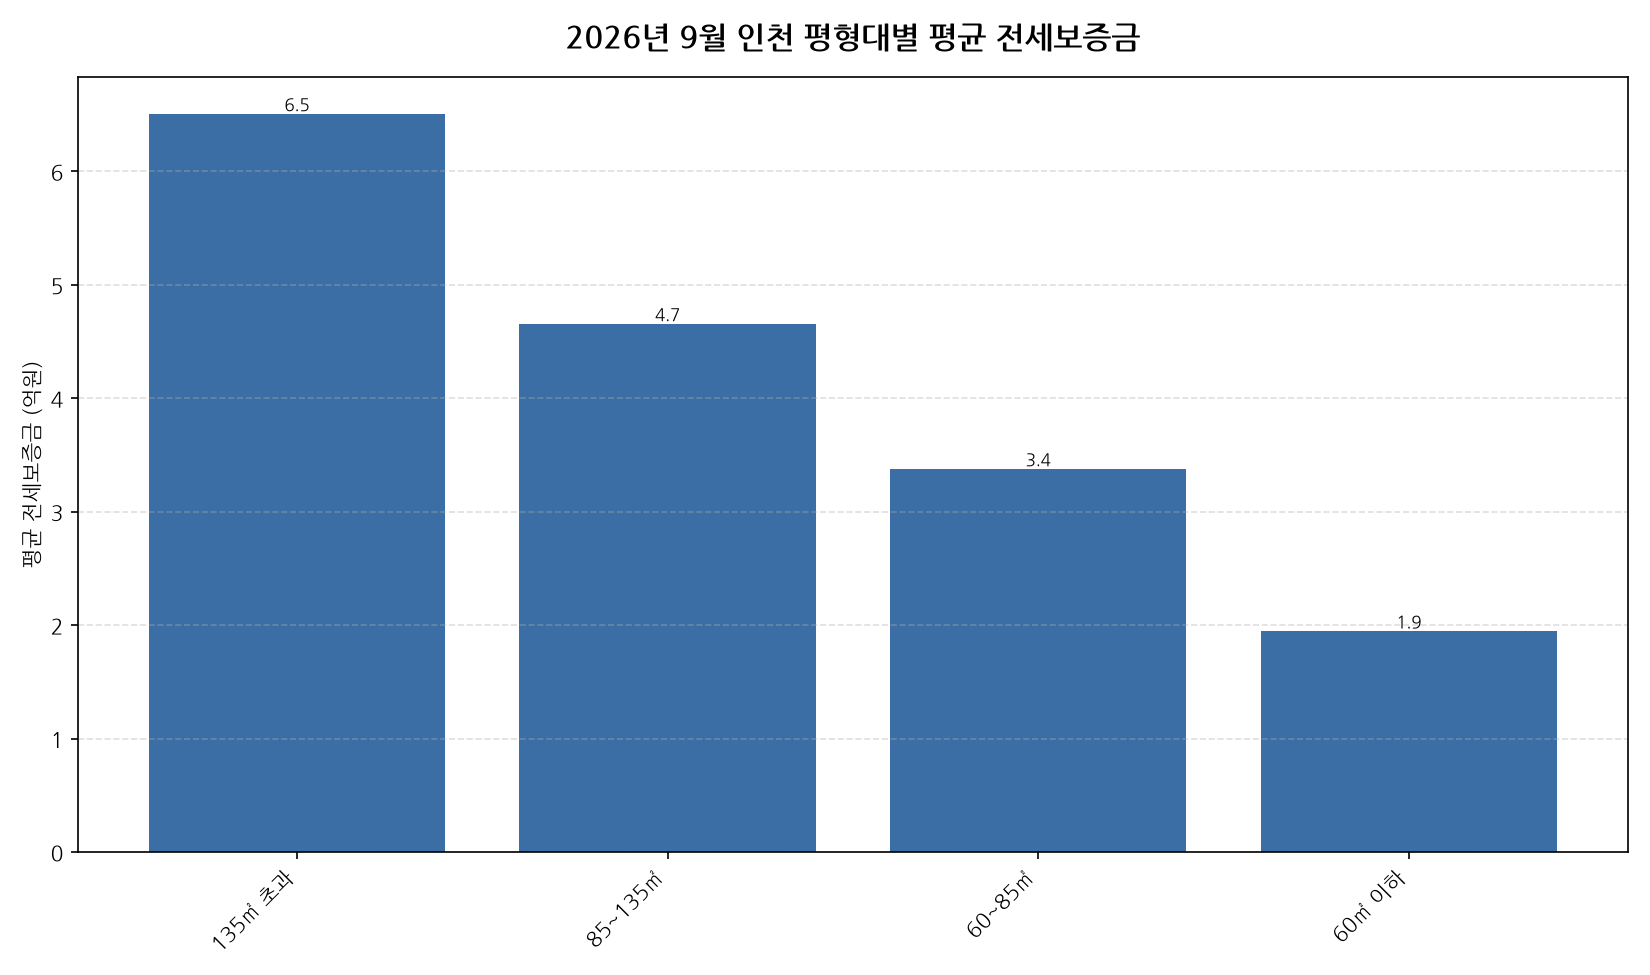
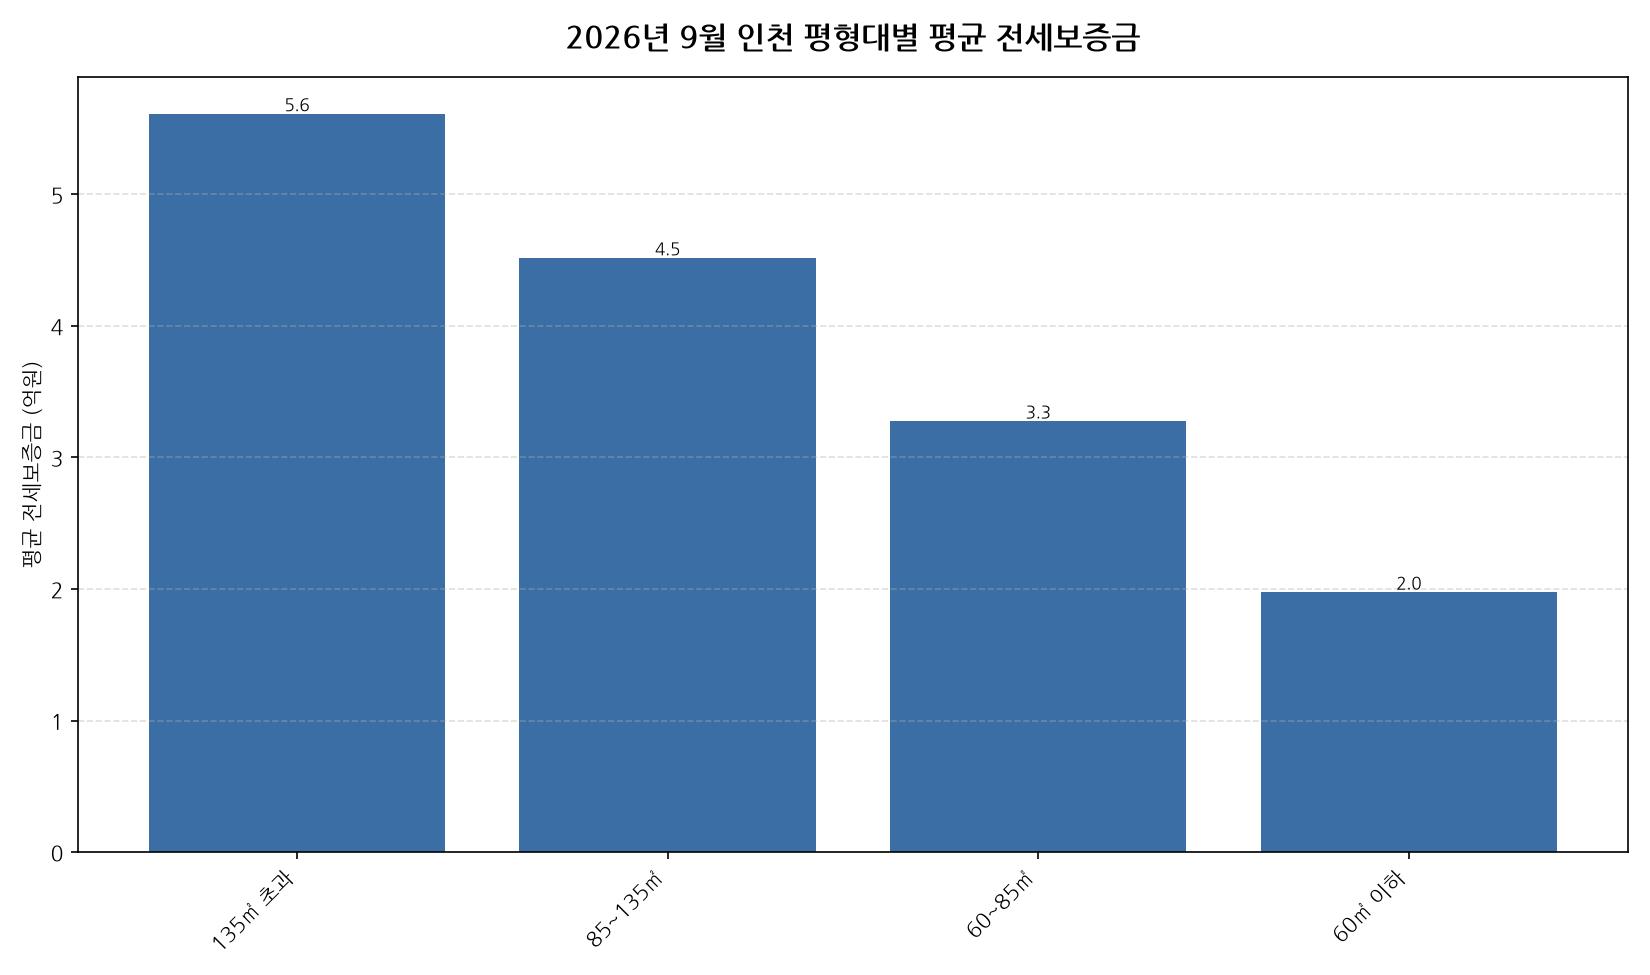
인천 글 3편 정정 재생성: 행정구역 개편 후 11개 구/군 기준
2026-07-01 개편으로 폐지된 중구·동구·서구 코드로 수집돼 제물포구·영종구·서해구·검단구 거래가
빠져 있던 글을 새 코드로 다시 생성했다. 주소와 최초 발행일은 유지하고 lastmod와 정정 안내를 더했다.

Changed region(s): [[0.3091, 0.2462, 0.4945, 0.3385], [0.5255, 0.4, 0.7418, 0.4923], [0.7418, 0.5846, 0.9582, 0.6462]]

diff --git a/content/posts/incheon-apt-jeonse-202608/index.md b/content/posts/incheon-apt-jeonse-202608/index.md
@@ -1,11 +1,13 @@
 ---
 title: "2026년 8월 인천 아파트 전세가 동향"
 date: 2026-09-28T10:22:10+09:00
+lastmod: 2026-10-27T06:00:38+09:00
 draft: false
 tags: ["아파트", "전세", "실거래가"]
 categories: ["데이터분석"]
-summary: "2026년 8월 인천 아파트 순수 전세 실거래 데이터 분석"
+summary: "2026년 8월 인천 아파트 순수 전세 2,201건 분석: 평균 3.0억원(전월 대비 +3.8%), 구/군별 최고는 연수구(3.7억원)"
 ---
+> **정정 안내 (2026-10-27)**: 처음 발행한 글은 2026년 7월 1일 인천 행정구역 개편(중구·동구·서구 폐지, 제물포구·영종구·서해구·검단구 신설)으로 바뀐 지역 코드를 반영하지 못해, 해당 지역의 거래가 빠진 채 집계됐습니다. 개편 후 11개 구/군 기준으로 데이터를 다시 수집해 표·차트·수치를 모두 바로잡았습니다.
 
 공공데이터포털의 국토교통부 아파트 전월세 실거래자료를 파이썬으로 직접 수집·분석해
 2026년 8월 인천 아파트 순수 전세 시장 흐름을 정리했습니다.
@@ -13,26 +15,32 @@ summary: "2026년 8월 인천 아파트 순수 전세 실거래 데이터 분석
 ## 분석 방법
 
 - 데이터 출처: [국토교통부 아파트 전월세 실거래자료](https://www.data.go.kr/data/15126474/openapi.do) (공공데이터포털 Open API)
-- 분석 대상: 인천 10개 구/군, 2026년 8월 신고 기준 순수 전세 계약
+- 분석 대상: 인천 11개 구/군, 2026년 8월 신고 기준 순수 전세 계약
 - 비교 기준월: 2026년 7월 (전월 대비 증감률 계산용)
 - 실거래 신고는 계약 후 30일 이내에 이루어지므로, 최근월 데이터는 이후 계속 소폭 갱신될 수 있습니다.
+- 데이터 수집 기준일: 2026-10-27. 이후 늦게 신고된 계약이 반영되면 같은 달을 다룬 다른 글과 수치가 조금 다를 수 있습니다.
 
-## 2026년 8월 인천 아파트 전세가 동향 · 구/군별 평균 전세보증금
+## 인천 구/군별 평균 전세보증금과 전월 대비 변화
 
 ![2026년 8월 인천 구/군별 평균 전세보증금](chart.png)
 
-| 구/군 | 평균 전세보증금 | 중위 전세보증금 | 거래건수 |
-|---|---:|---:|---:|
-| 연수구 | 3.7 | 3.7 | 532 |
-| 부평구 | 2.7 | 2.5 | 278 |
-| 남동구 | 2.6 | 2.7 | 231 |
-| 미추홀구 | 2.5 | 2.8 | 124 |
-| 계양구 | 2.0 | 1.7 | 176 |
-| 강화군 | 1.5 | 1.5 | 2 |
+| 구/군 | 평균 전세보증금(억원) | 중위 전세보증금(억원) | 전월 대비 | 거래건수 |
+|---|---:|---:|---:|---:|
+| 연수구 | 3.7 | 3.8 | +0.6% | 553 |
+| 서해구 | 3.6 | 3.7 | +15.8% | 234 |
+| 검단구 | 3.2 | 3.3 | +0.5% | 338 |
+| 부평구 | 2.7 | 2.5 | +2.4% | 286 |
+| 영종구 | 2.6 | 2.7 | +2.2% | 188 |
+| 남동구 | 2.6 | 2.7 | +7.5% | 246 |
+| 미추홀구 | 2.6 | 2.8 | -0.7% | 136 |
+| 계양구 | 2.0 | 1.7 | -2.8% | 185 |
+| 제물포구 | 1.6 | 1.6 | -5.8% | 33 |
+| 강화군 | 1.5 | 1.5 | - | 2 |
 
-## 2026년 8월 인천 아파트 전세가 동향 · 구/군별 인사이트
+## 인천 8월 전세가 동향 인사이트
 
-- 2026년 8월 인천 아파트 순수 전세 평균 전세보증금은 약 3.0억원으로, 전월 대비 2.9% 상승했습니다.
-- 10개 구/군 중 평균 전세보증금이 가장 높은 곳은 연수구(약 3.7억원)이었고, 가장 낮은 곳은 강화군(약 1.5억원)이었습니다.
-- 거래량 기준으로는 연수구에서 532건으로 가장 활발하게 순수 전세 계약이 체결됐습니다.
-- 2026년 8월 인천에서 신고된 순수 전세 계약은 총 1343건입니다 (월세를 낀 반전세/월세 계약은 제외).
+- 2026년 8월 인천 아파트 순수 전세 평균 전세보증금은 약 3.0억원으로, 전월 대비 3.8% 상승했습니다.
+- 11개 구/군 중 평균 전세보증금이 가장 높은 곳은 연수구(약 3.7억원)이었고, 가장 낮은 곳은 강화군(약 1.5억원)이었습니다.
+- 거래량 기준으로는 연수구에서 553건으로 가장 활발하게 순수 전세 계약이 체결됐습니다.
+- 전월 대비 평균이 가장 많이 오른 곳은 서해구(+15.8%), 가장 많이 내린 곳은 제물포구(-5.8%)이었습니다 (두 달 모두 10건 이상 거래된 곳만 비교).
+- 2026년 8월 인천에서 신고된 순수 전세 계약은 총 2201건입니다 (월세를 낀 반전세/월세 계약은 제외).

diff --git a/content/posts/incheon-apt-areaband-202609/index.md b/content/posts/incheon-apt-areaband-202609/index.md
@@ -1,11 +1,13 @@
 ---
 title: "2026년 9월 인천 아파트 평형대별 전세가 분석"
 date: 2026-10-02T10:58:14+09:00
+lastmod: 2026-10-27T06:04:40+09:00
 draft: false
 tags: ["아파트", "평형대", "전세", "실거래가"]
 categories: ["데이터분석"]
-summary: "2026년 9월 인천 아파트 순수 전세 실거래 데이터 분석"
+summary: "2026년 9월 인천 아파트 순수 전세 1,976건 분석: 평균 3.0억원(전월 대비 -0.7%), 평형대별 최고는 135㎡ 초과(5.6억원)"
 ---
+> **정정 안내 (2026-10-27)**: 처음 발행한 글은 2026년 7월 1일 인천 행정구역 개편(중구·동구·서구 폐지, 제물포구·영종구·서해구·검단구 신설)으로 바뀐 지역 코드를 반영하지 못해, 해당 지역의 거래가 빠진 채 집계됐습니다. 개편 후 11개 구/군 기준으로 데이터를 다시 수집해 표·차트·수치를 모두 바로잡았습니다.
 
 공공데이터포털의 국토교통부 아파트 전월세 실거래자료를 파이썬으로 직접 수집·분석해
 2026년 9월 인천 아파트 순수 전세 시장 흐름을 정리했습니다.
@@ -16,21 +18,23 @@ summary: "2026년 9월 인천 아파트 순수 전세 실거래 데이터 분석
 - 분석 대상: 인천 4개 평형대 구간, 2026년 9월 신고 기준 순수 전세 계약
 - 비교 기준월: 2026년 8월 (전월 대비 증감률 계산용)
 - 실거래 신고는 계약 후 30일 이내에 이루어지므로, 최근월 데이터는 이후 계속 소폭 갱신될 수 있습니다.
+- 데이터 수집 기준일: 2026-10-27. 이후 늦게 신고된 계약이 반영되면 같은 달을 다룬 다른 글과 수치가 조금 다를 수 있습니다.
 
-## 2026년 9월 인천 아파트 평형대별 전세가 분석 · 평형대별 평균 전세보증금
+## 인천 평형대별 평균 전세보증금과 전월 대비 변화
 
 ![2026년 9월 인천 평형대별 평균 전세보증금](chart.png)
 
-| 평형대 | 평균 전세보증금 | 중위 전세보증금 | 거래건수 |
-|---|---:|---:|---:|
-| 135㎡ 초과 | 6.5 | 5.2 | 15 |
-| 85~135㎡ | 4.7 | 4.7 | 129 |
-| 60~85㎡ | 3.4 | 3.5 | 436 |
-| 60㎡ 이하 | 1.9 | 1.8 | 501 |
+| 평형대 | 평균 전세보증금(억원) | 중위 전세보증금(억원) | 전월 대비 | 거래건수 |
+|---|---:|---:|---:|---:|
+| 135㎡ 초과 | 5.6 | 5.0 | +5.1% | 33 |
+| 85~135㎡ | 4.5 | 4.3 | +2.5% | 267 |
+| 60~85㎡ | 3.3 | 3.3 | -0.8% | 948 |
+| 60㎡ 이하 | 2.0 | 1.8 | -0.3% | 728 |
 
-## 2026년 9월 인천 아파트 평형대별 전세가 분석 · 평형대별 인사이트
+## 인천 9월 평형대별 전세가 인사이트
 
-- 2026년 9월 인천 아파트 순수 전세 평균 전세보증금은 약 2.9억원으로, 전월 대비 1.8% 하락했습니다.
-- 4개 평형대 구간 중 평균 전세보증금이 가장 높은 구간은 135㎡ 초과(약 6.5억원)이었고, 가장 낮은 구간은 60㎡ 이하(약 1.9억원)이었습니다.
-- 거래량 기준으로는 60㎡ 이하에서 501건으로 가장 활발하게 순수 전세 계약이 체결됐습니다.
-- 2026년 9월 인천에서 신고된 순수 전세 계약은 총 1081건입니다 (월세를 낀 반전세/월세 계약은 제외).
+- 2026년 9월 인천 아파트 순수 전세 평균 전세보증금은 약 3.0억원으로, 전월 대비 0.7% 하락했습니다.
+- 4개 평형대 구간 중 평균 전세보증금이 가장 높은 구간은 135㎡ 초과(약 5.6억원)이었고, 가장 낮은 구간은 60㎡ 이하(약 2.0억원)이었습니다.
+- 거래량 기준으로는 60~85㎡에서 948건으로 가장 활발하게 순수 전세 계약이 체결됐습니다.
+- 전월 대비 평균이 가장 많이 오른 구간은 135㎡ 초과(+5.1%), 가장 많이 내린 구간은 60~85㎡(-0.8%)이었습니다 (두 달 모두 10건 이상 거래된 구간만 비교).
+- 2026년 9월 인천에서 신고된 순수 전세 계약은 총 1976건입니다 (월세를 낀 반전세/월세 계약은 제외).
